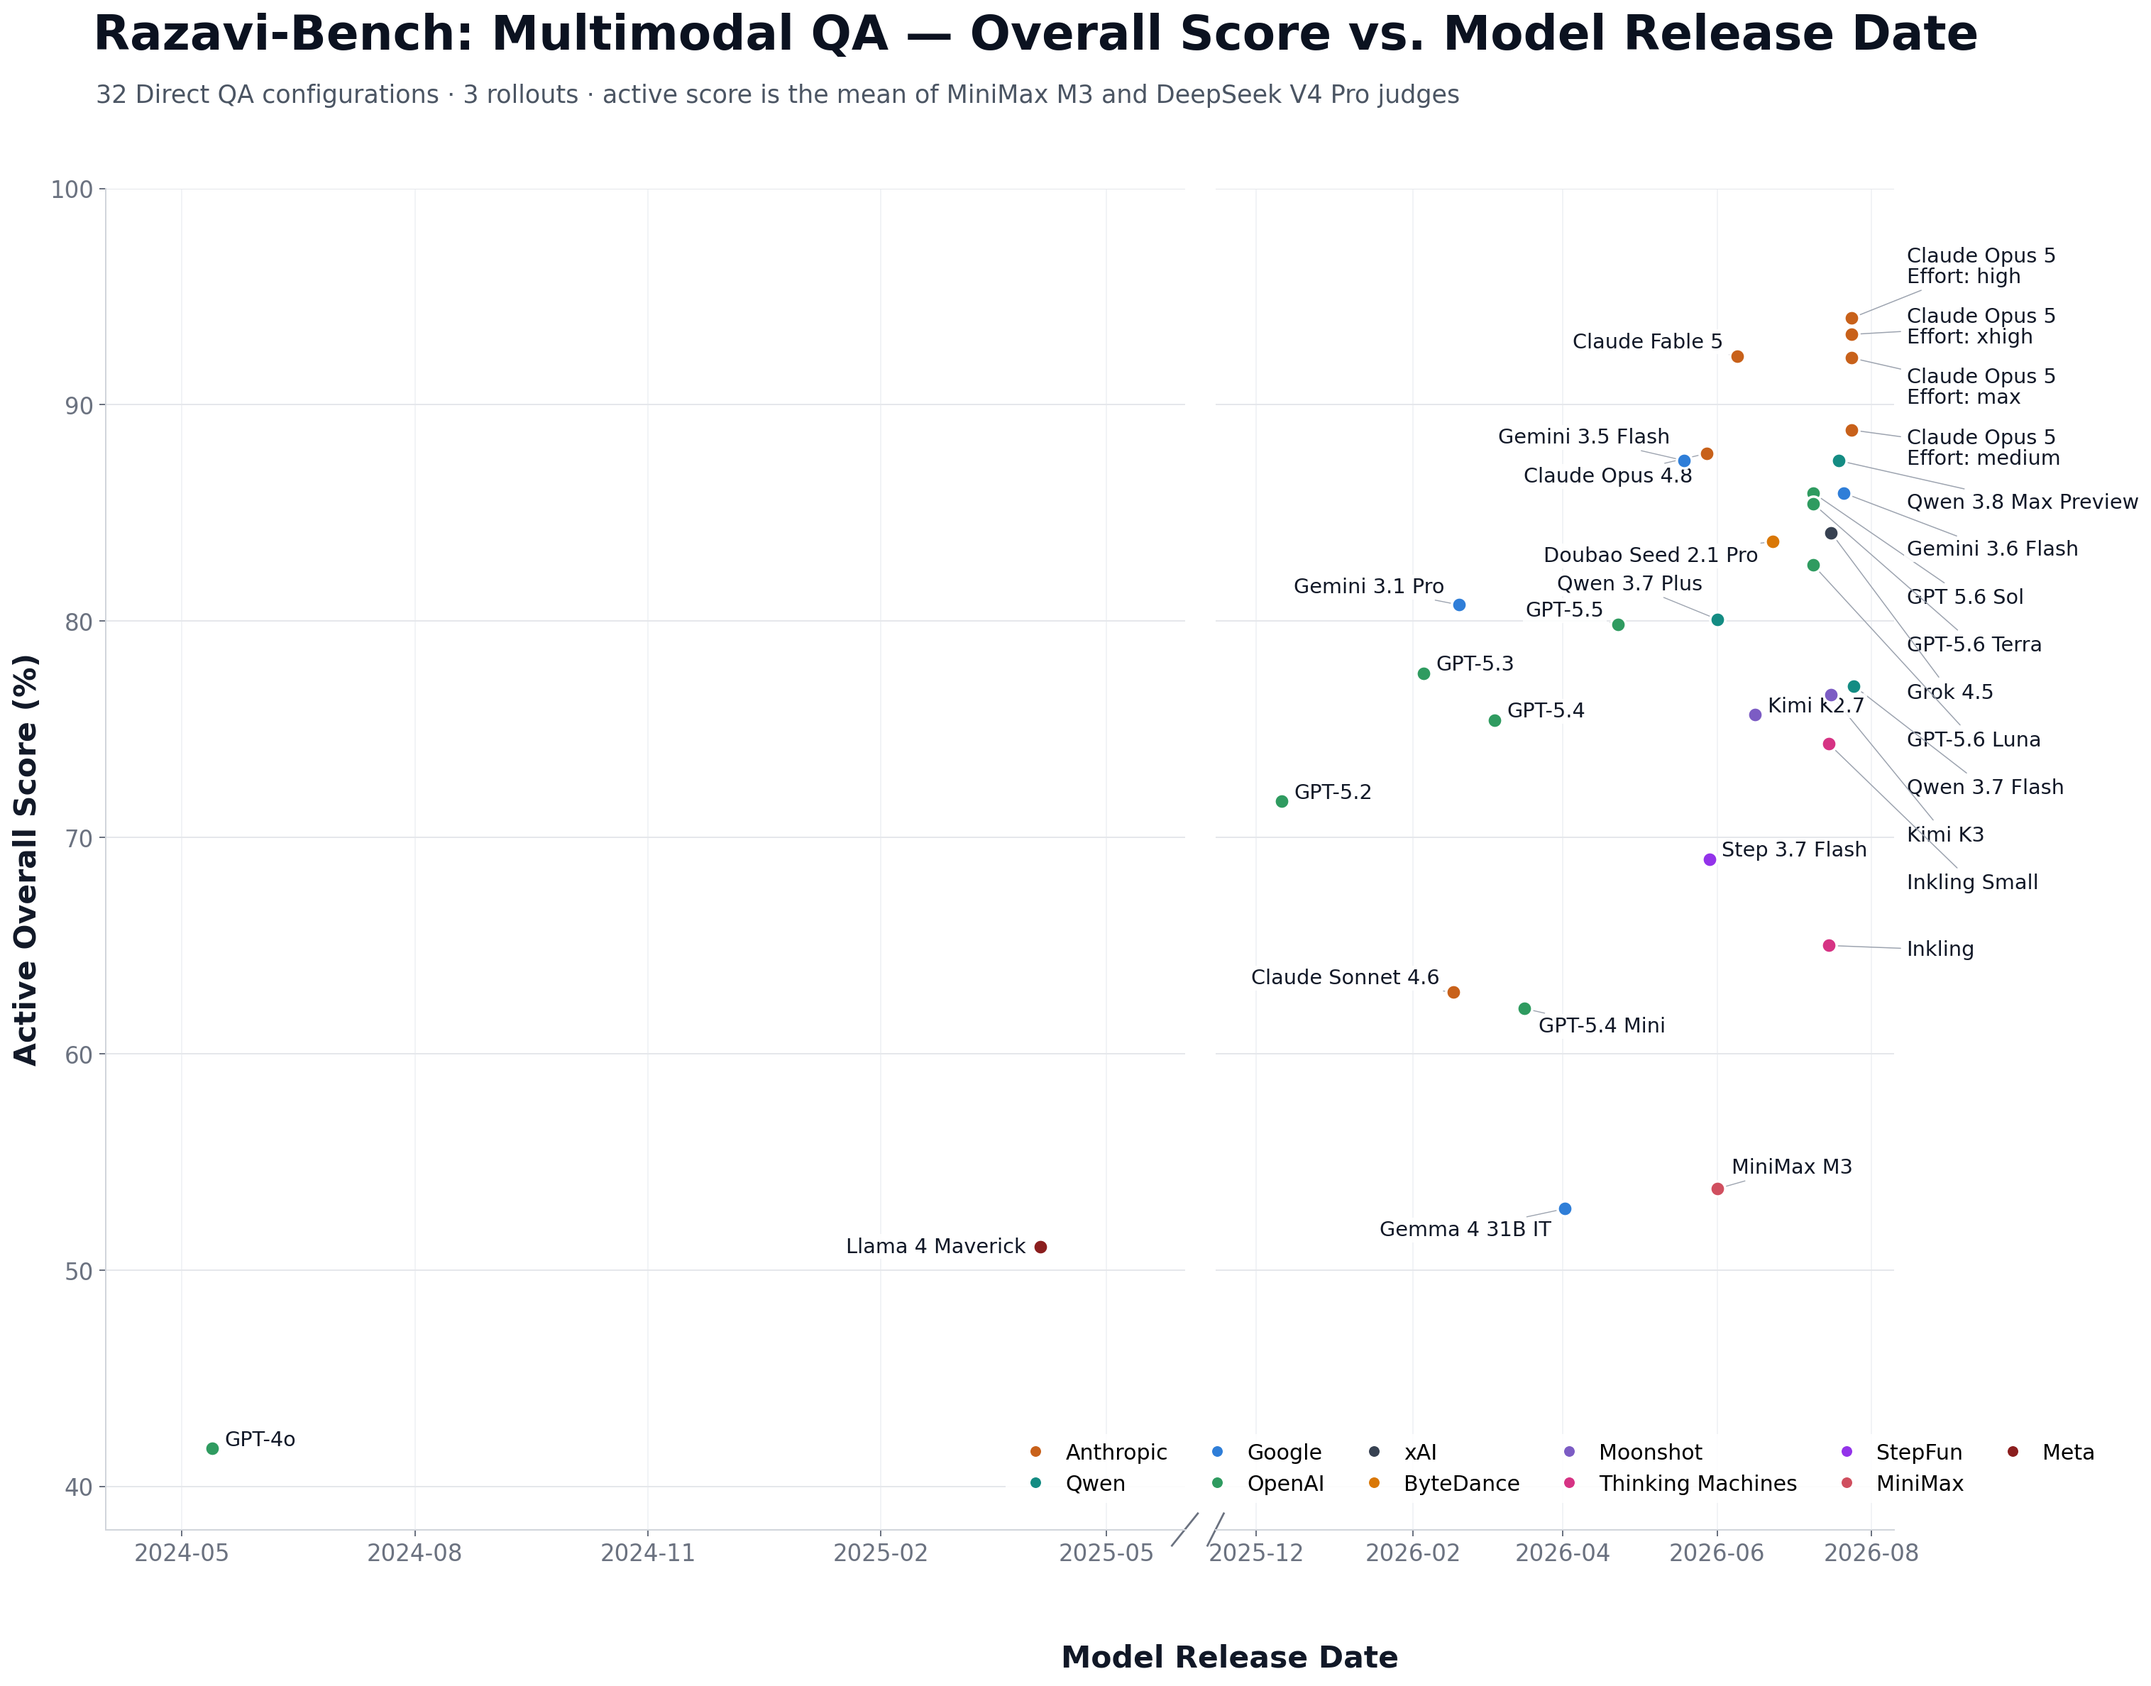
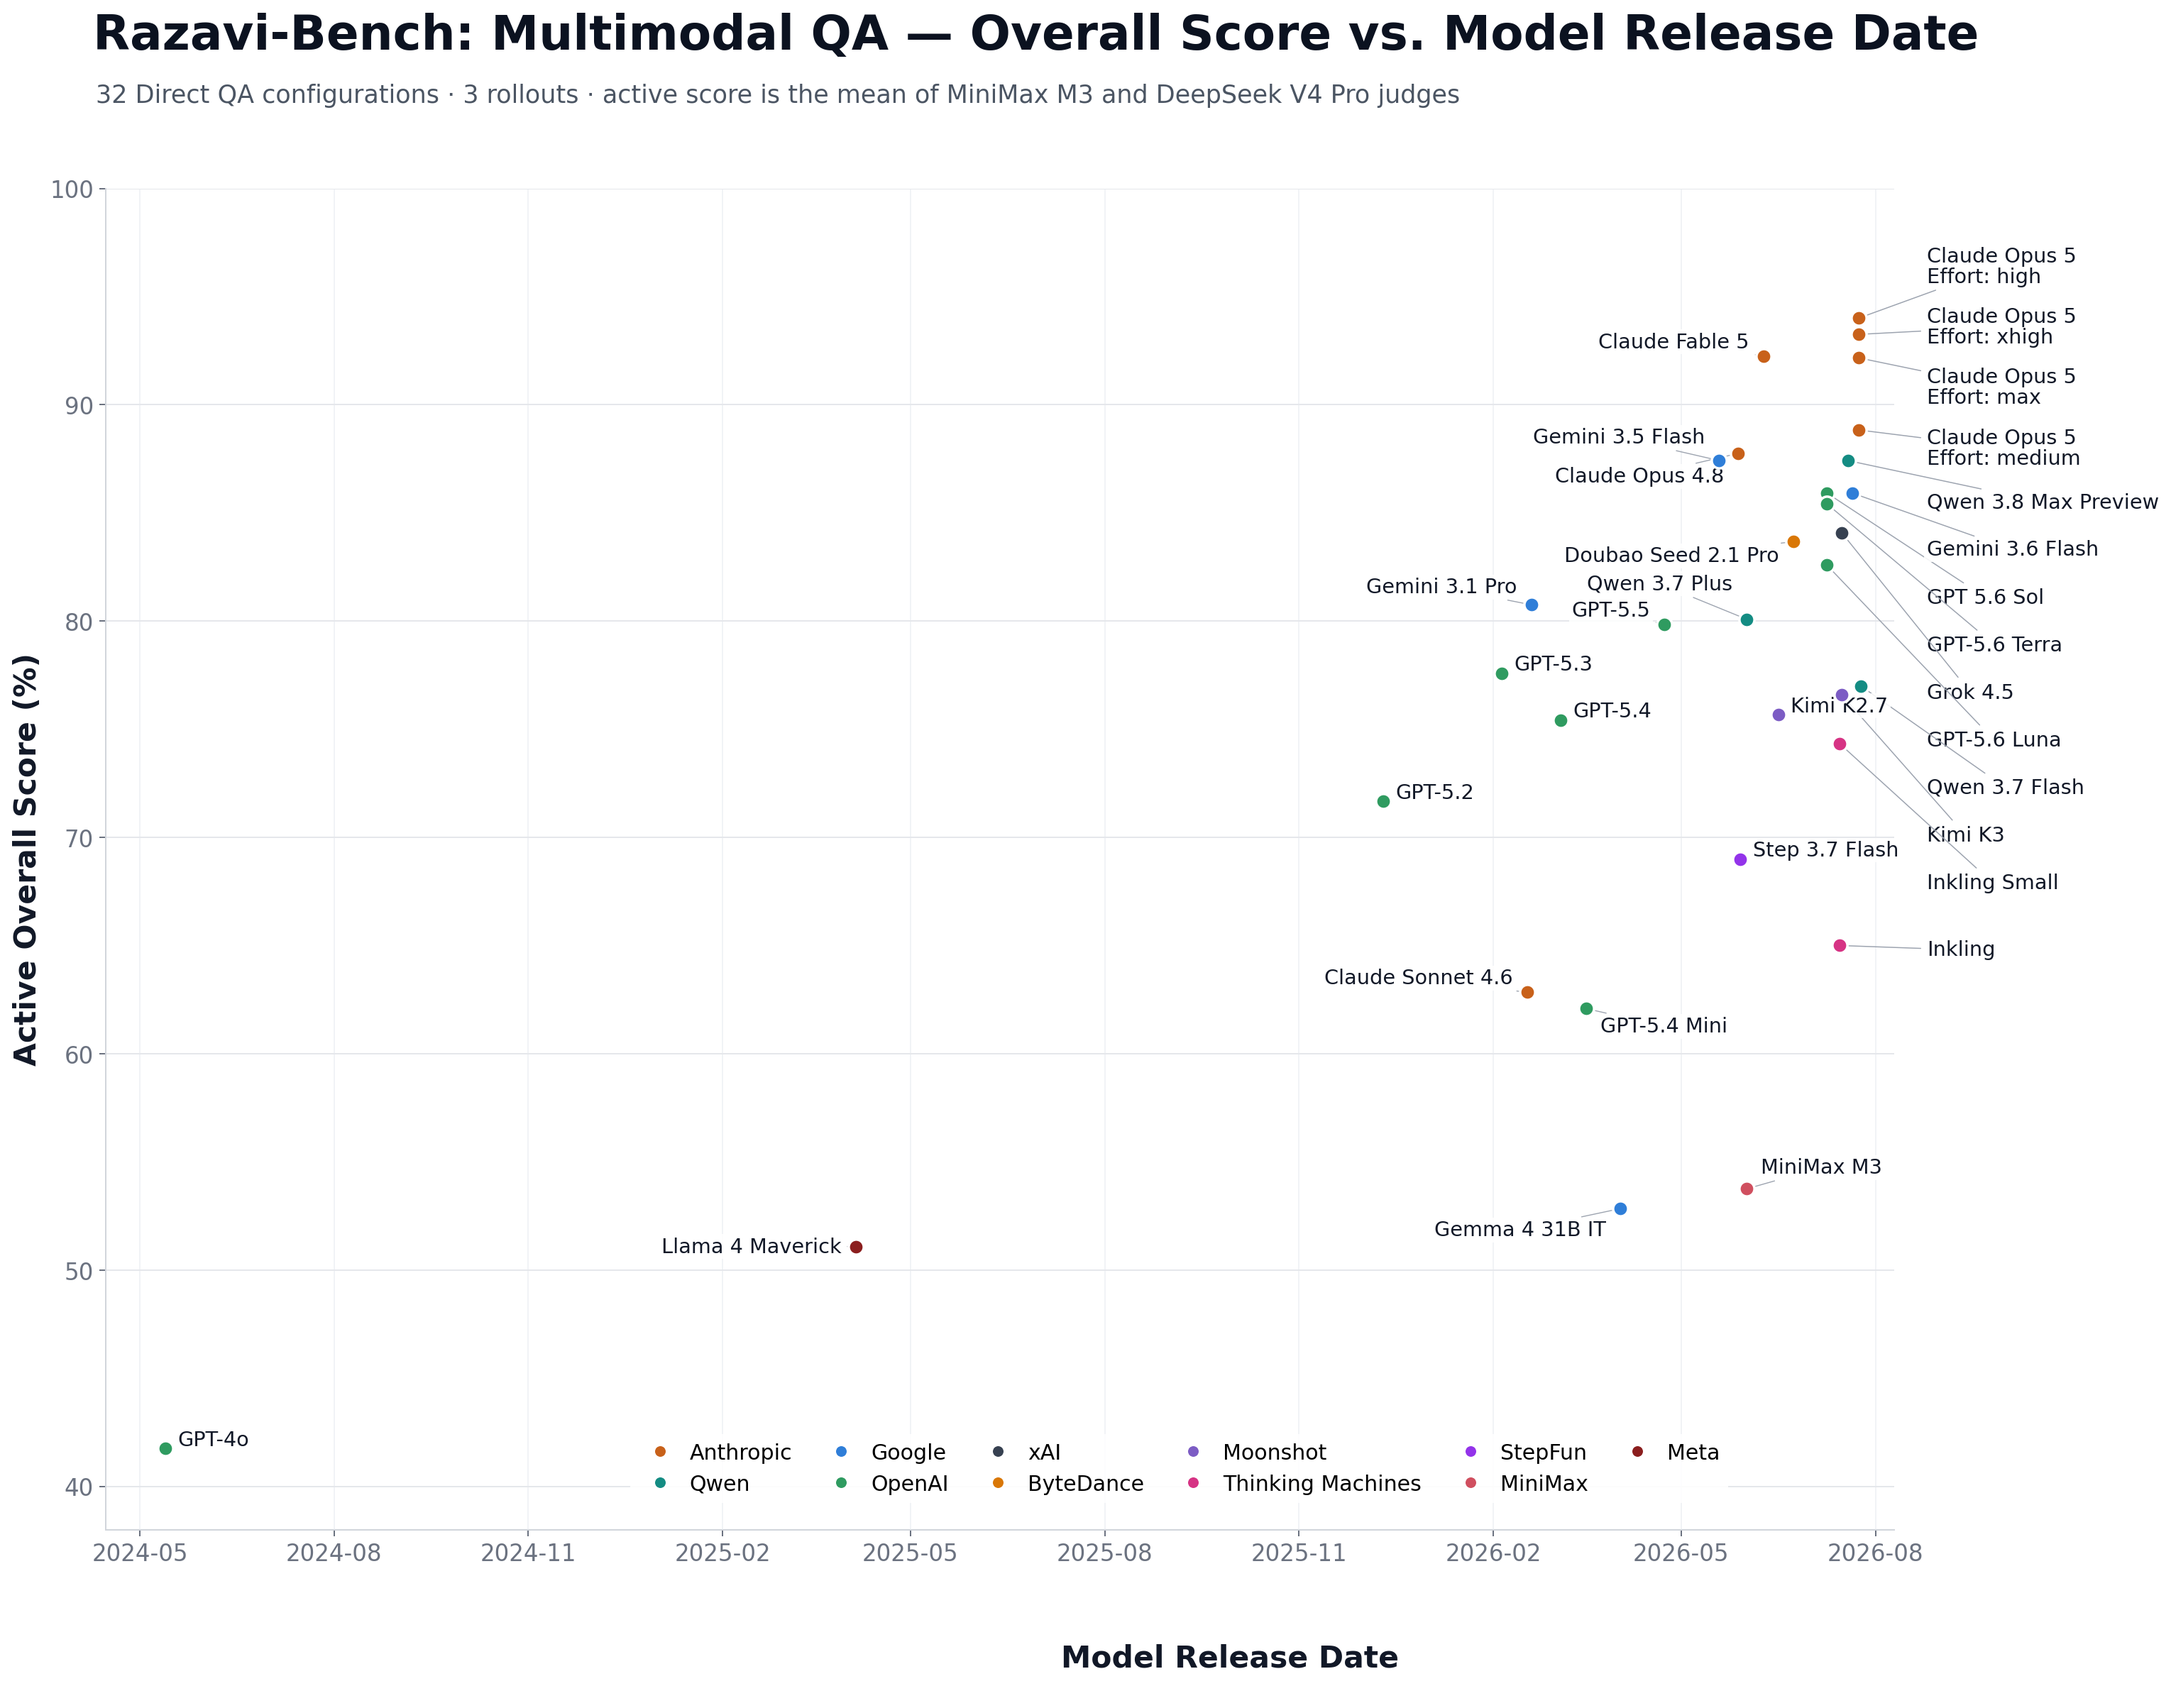
Use continuous release date axis

diff --git a/tools/plot_model_release_timeline.py b/tools/plot_model_release_timeline.py
@@ -176,27 +176,17 @@ def plot(rows: list[dict[str, object]], output: Path) -> None:
         "figure.facecolor": "white",
         "axes.facecolor": "white",
     })
-    figure, (old_ax, recent_ax) = plt.subplots(
-        1,
-        2,
+    figure, ax = plt.subplots(
         figsize=(20, 15),
         dpi=180,
-        sharey=True,
-        gridspec_kw={"width_ratios": [426, 268], "wspace": 0.035},
     )
-    old_ax.set_xlim(date(2024, 4, 1), date(2025, 6, 1))
-    recent_ax.set_xlim(date(2025, 11, 15), date(2026, 8, 10))
-    old_ax.xaxis.set_major_locator(mdates.MonthLocator(interval=3))
-    recent_ax.xaxis.set_major_locator(mdates.MonthLocator(bymonth=[2, 4, 6, 8, 10, 12]))
-    style_axis(old_ax)
-    style_axis(recent_ax)
-    recent_ax.spines["left"].set_visible(False)
-    recent_ax.tick_params(axis="y", left=False, labelleft=False)
+    ax.set_xlim(date(2024, 4, 15), date(2026, 8, 10))
+    ax.xaxis.set_major_locator(mdates.MonthLocator(bymonth=[2, 5, 8, 11]))
+    style_axis(ax)
 
     for row in rows:
-        axis = old_ax if row["release_date"] < date(2025, 6, 1) else recent_ax
         _, color = PROVIDER_STYLE[str(row["provider"])]
-        axis.scatter(
+        ax.scatter(
             row["release_date"],
             row["score"],
             s=72,
@@ -205,9 +195,9 @@ def plot(rows: list[dict[str, object]], output: Path) -> None:
             linewidth=1.4,
             zorder=5,
         )
-        annotate(axis, row)
+        annotate(ax, row)
 
-    old_ax.set_ylabel("Active Overall Score (%)", fontsize=17, fontweight="bold", color="#111827")
+    ax.set_ylabel("Active Overall Score (%)", fontsize=17, fontweight="bold", color="#111827")
     figure.supxlabel("Model Release Date", y=0.105, fontsize=17, fontweight="bold", color="#111827")
     figure.suptitle(
         "Razavi-Bench: Multimodal QA — Overall Score vs. Model Release Date",
@@ -226,11 +216,6 @@ def plot(rows: list[dict[str, object]], output: Path) -> None:
         color="#4B5563",
     )
 
-    diagonal = 0.012
-    kwargs = {"color": "#6B7280", "clip_on": False, "linewidth": 1.1}
-    old_ax.plot((1 - diagonal, 1 + diagonal), (-diagonal, +diagonal), transform=old_ax.transAxes, **kwargs)
-    recent_ax.plot((-diagonal, +diagonal), (-diagonal, +diagonal), transform=recent_ax.transAxes, **kwargs)
-
     providers = []
     seen = set()
     for row in rows:
@@ -242,10 +227,10 @@ def plot(rows: list[dict[str, object]], output: Path) -> None:
             Line2D([0], [0], marker="o", color="none", markerfacecolor=color,
                    markeredgecolor="white", markersize=7, label=legend_name)
         )
-    recent_ax.legend(
+    ax.legend(
         handles=providers,
         loc="lower center",
-        bbox_to_anchor=(0.50, 0.012),
+        bbox_to_anchor=(0.60, 0.012),
         ncol=6,
         frameon=True,
         facecolor="white",

diff --git a/README.md b/README.md
@@ -240,5 +240,5 @@ marks preview or first-public-availability dates in the
 [model release-date table](docs/data/direct_qa/model_release_dates.csv).
 
 <p align="center">
-  <img src="docs/assets/direct_qa_score_vs_release_date.png?v=20260802-proportional-break" alt="Razavi-Bench score versus model release date" title="Razavi-Bench score versus model release date" width="96%"/>
+  <img src="docs/assets/direct_qa_score_vs_release_date.png?v=20260802-continuous-axis" alt="Razavi-Bench score versus model release date" title="Razavi-Bench score versus model release date" width="96%"/>
 </p>
